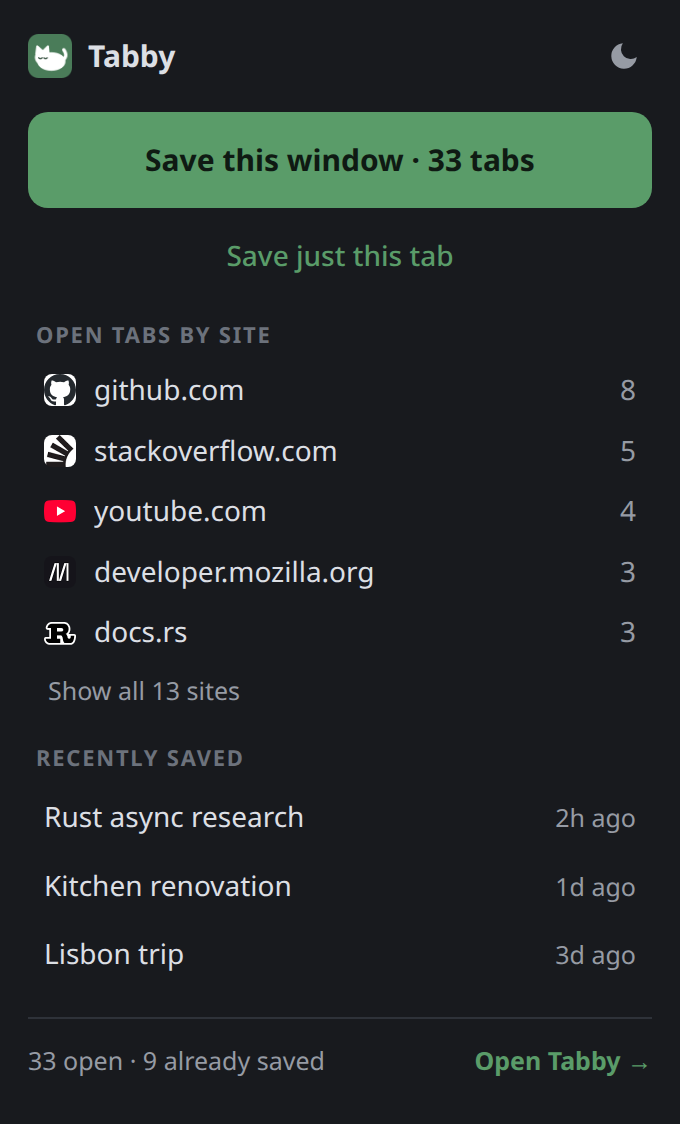
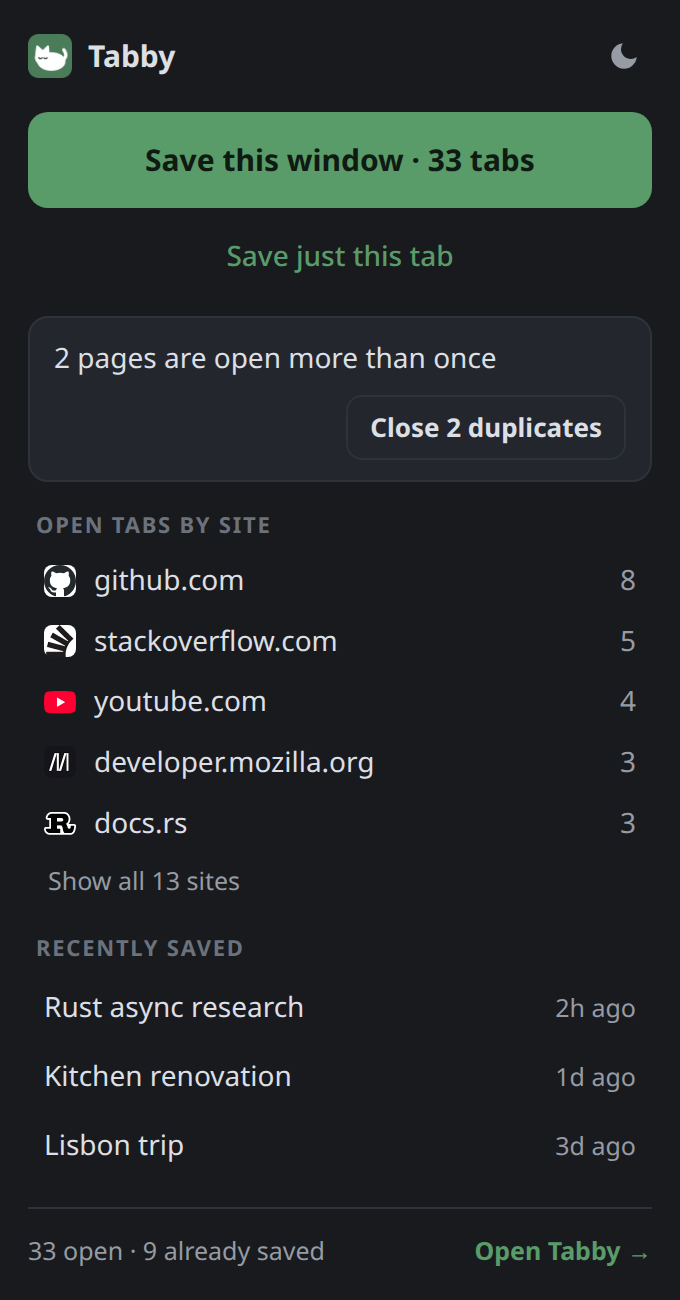
Add a close-duplicates control to the popup
Shown when a page is open in more than one tab. Asks once, keeps one
tab per page, leaves pinned tabs alone, and offers Reopen afterwards.

diff --git a/popup.js b/popup.js
@@ -1,4 +1,4 @@
-// POPUP UI — save the current window or tab, and jump to recent snapshots
+// POPUP UI — save the current window or tab, close duplicate tabs, and jump to recent snapshots
 // Depends on: lib/urls.js, lib/dates.js, storage/dedup.js, storage/snapshots.js,
 //             lib/domains.js (openTabsBySite), library/model.js, library/tidy-model.js,
 //             library/open.js
@@ -7,6 +7,9 @@ const SITES_SHOWN = 5; // sites listed before "Show all"
 
 let allSites = []; // [{domain, count, favicon}] across every window
 let showAllSites = false;
+let duplicateGroups = []; // [{url, keep, close}] pages open in more than one tab
+let dupeStep = "idle"; // "idle" | "confirm" | "done"
+let closedDuplicates = []; // tabs closed by the last clean-up, for Reopen
 let windowTabs = []; // saveable tabs in the current window
 let activeTab = null; // the current tab, if it can be saved
 
@@ -56,11 +59,108 @@ async function refresh() {
   activeTab = current && isSaveableTab(current, ownId) ? current : null;
 
   allSites = openTabsBySite(allTabs);
+  duplicateGroups = findDuplicateOpenTabs(allTabs, ownId);
 
   renderSaveButtons();
+  renderDuplicates();
   renderSites();
   renderRecent(snapshots);
   renderSummary(allTabs, snapshots, ownId);
+}
+
+// ── Duplicate open tabs ───────────────────────────────
+
+function extraTabs() {
+  return duplicateGroups.flatMap((group) => group.close);
+}
+
+/**
+ * The duplicate clean-up card: offer, then confirm once, then report with
+ * a way to reopen. Pinned tabs and extension pages are never included.
+ */
+function renderDuplicates() {
+  const box = document.getElementById("dupes");
+  const extras = extraTabs();
+
+  if (dupeStep === "done") {
+    box.hidden = false;
+    box.innerHTML = `
+      <span class="dupes-text">Closed ${tabCountLabel(closedDuplicates.length)}</span>
+      <span class="dupes-actions"><button class="chip" data-dupe="reopen">Reopen</button></span>`;
+    return;
+  }
+
+  if (extras.length === 0) {
+    box.hidden = true;
+    box.innerHTML = "";
+    dupeStep = "idle";
+    return;
+  }
+
+  box.hidden = false;
+  const pages = duplicateGroups.length;
+
+  if (dupeStep === "confirm") {
+    box.innerHTML = `
+      <span class="dupes-text">Close ${tabCountLabel(extras.length)}? One tab stays open for each page.</span>
+      <span class="dupes-actions">
+        <button class="chip" data-dupe="cancel">Cancel</button>
+        <button class="chip chip-primary" data-dupe="close">Close</button>
+      </span>`;
+    box.querySelector('[data-dupe="cancel"]').focus();
+    return;
+  }
+
+  box.innerHTML = `
+    <span class="dupes-text">${pages} page${pages === 1 ? " is" : "s are"} open more than once</span>
+    <span class="dupes-actions">
+      <button class="chip" data-dupe="ask">Close ${extras.length} duplicate${extras.length === 1 ? "" : "s"}</button>
+    </span>`;
+}
+
+async function closeDuplicates() {
+  // Look again first, so a tab that changed since the popup opened is kept.
+  const fresh = findDuplicateOpenTabs(await chrome.tabs.query({}), chrome.runtime.id);
+  const toClose = tabsStillListed(extraTabs(), fresh.flatMap((group) => group.close));
+
+  try {
+    if (toClose.length > 0) await chrome.tabs.remove(toClose.map((tab) => tab.id));
+    closedDuplicates = toClose;
+    dupeStep = toClose.length > 0 ? "done" : "idle";
+  } catch (err) {
+    console.error("[Tabby] Could not close duplicate tabs:", err);
+    dupeStep = "idle";
+  }
+  await refresh();
+}
+
+async function reopenDuplicates() {
+  for (const tab of closedDuplicates) {
+    const url = getTabUrl(tab);
+    if (!url) continue;
+    try {
+      await chrome.tabs.create({ url, windowId: tab.windowId, active: false });
+    } catch {
+      await chrome.tabs.create({ url, active: false }).catch(() => {});
+    }
+  }
+  closedDuplicates = [];
+  dupeStep = "idle";
+  await refresh();
+}
+
+function setupDuplicates() {
+  document.getElementById("dupes").addEventListener("click", (event) => {
+    const button = event.target.closest("[data-dupe]");
+    if (!button) return;
+    const action = button.dataset.dupe;
+
+    if (action === "ask") dupeStep = "confirm";
+    if (action === "cancel") dupeStep = "idle";
+    if (action === "ask" || action === "cancel") renderDuplicates();
+    if (action === "close") closeDuplicates();
+    if (action === "reopen") reopenDuplicates();
+  });
 }
 
 function siteRowHtml(site) {
@@ -168,6 +268,7 @@ async function refreshRecentOnly() {
 
 function setupButtons() {
   document.getElementById("theme-toggle").addEventListener("click", toggleTheme);
+  setupDuplicates();
 
   document.getElementById("save-window").addEventListener("click", (event) => {
     saveAndReport(event.currentTarget, windowTabs, "popup-window");

diff --git a/popup.css b/popup.css
@@ -171,6 +171,53 @@ button:focus-visible {
   font-size: 12.5px;
 }
 
+.dupes {
+  display: flex;
+  align-items: center;
+  flex-wrap: wrap;
+  gap: 8px;
+  margin-top: 12px;
+  padding: 10px 12px;
+  border: 1px solid var(--border);
+  border-radius: 10px;
+  background: var(--bg-raised);
+}
+
+.dupes-text {
+  flex: 1 1 140px;
+  min-width: 0;
+}
+
+.dupes-actions {
+  display: flex;
+  gap: 6px;
+  margin-left: auto;
+}
+
+.chip {
+  padding: 6px 11px;
+  border: 1px solid var(--border);
+  border-radius: 8px;
+  font-weight: 600;
+  font-size: 13px;
+  white-space: nowrap;
+}
+
+.chip:hover {
+  border-color: var(--text-faint);
+}
+
+.chip-primary {
+  background: var(--accent);
+  border-color: var(--accent);
+  color: var(--on-accent);
+}
+
+.chip-primary:hover {
+  background: var(--accent-hover);
+  border-color: var(--accent-hover);
+}
+
 .site-row {
   display: flex;
   align-items: center;

diff --git a/popup.html b/popup.html
@@ -16,6 +16,8 @@
   <button id="save-window" class="primary" disabled>Save this window</button>
   <button id="save-tab" class="secondary" disabled>Save just this tab</button>
 
+  <section id="dupes" class="dupes" hidden></section>
+
   <section id="sites" class="block" hidden>
     <h2>Open tabs by site</h2>
     <div id="site-list"></div>
